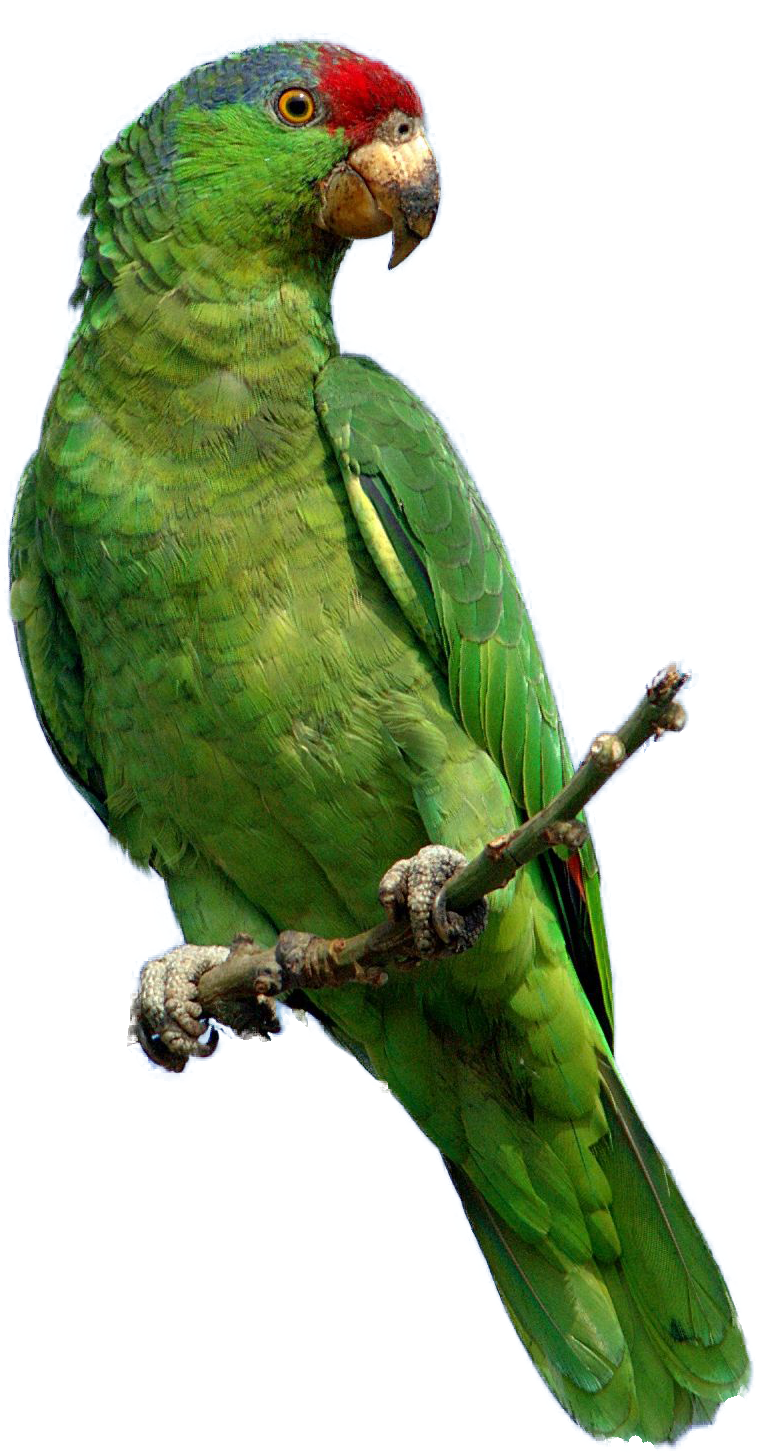
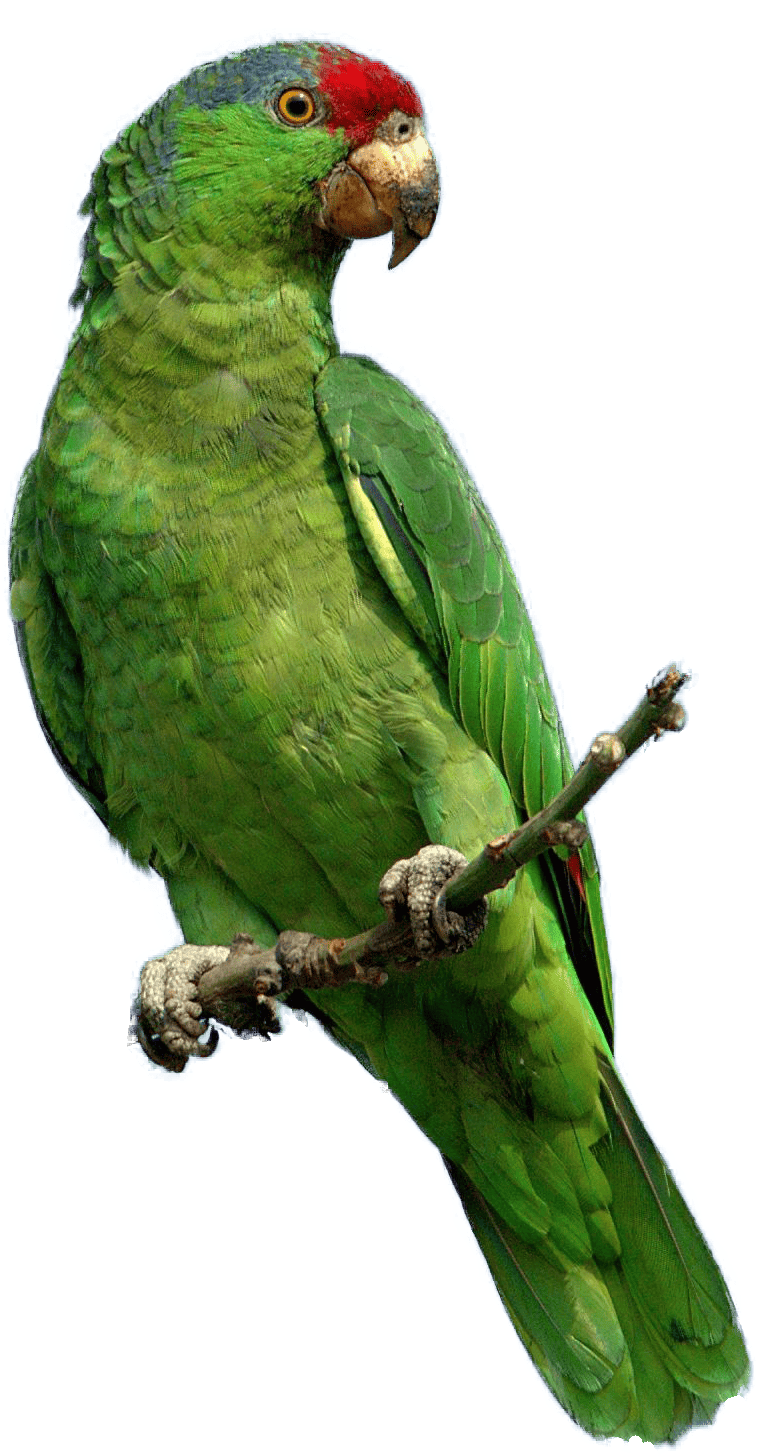
feat: add haptic vibration feedback to user interactions and minimize the size of asset images

diff --git a/src/screens/Learning.tsx b/src/screens/Learning.tsx
@@ -31,6 +31,7 @@ export const Learning: React.FC = () => {
   const currentItem = dataset[currentIndex];
 
   const handlePlaySound = useCallback(() => {
+    if (navigator.vibrate) navigator.vibrate(10);
     console.log("Learning Screen: handlePlaySound triggered");
     setIsSpeaking(true);
     const textToSpeak =
@@ -43,6 +44,7 @@ export const Learning: React.FC = () => {
   }, [currentItem, mode, playSound]);
 
   const handleNext = useCallback(() => {
+    if (navigator.vibrate) navigator.vibrate(10);
     if (currentIndex < dataset.length - 1) {
       setDirection(1);
       setCurrentIndex((prev) => prev + 1);
@@ -52,6 +54,7 @@ export const Learning: React.FC = () => {
   }, [currentIndex, dataset.length]);
 
   const handlePrev = useCallback(() => {
+    if (navigator.vibrate) navigator.vibrate(10);
     if (currentIndex > 0) {
       setDirection(-1);
       setCurrentIndex((prev) => prev - 1);
@@ -67,10 +70,14 @@ export const Learning: React.FC = () => {
     return (
       <Celebration
         onRestart={() => {
+          if (navigator.vibrate) navigator.vibrate(10);
           setIsCompleted(false);
           setCurrentIndex(0);
         }}
-        onHome={() => navigate("/")}
+        onHome={() => {
+          if (navigator.vibrate) navigator.vibrate(10);
+          navigate("/");
+        }}
       />
     );
   }
@@ -87,7 +94,10 @@ export const Learning: React.FC = () => {
         <motion.button
           whileHover={{ scale: 1.1, rotate: -5 }}
           whileTap={{ scale: 0.9, rotate: 0 }}
-          onClick={() => navigate("/")}
+          onClick={() => {
+            if (navigator.vibrate) navigator.vibrate(10);
+            navigate("/");
+          }}
           className="w-14 h-14 md:w-20 md:h-20 rounded-2xl md:rounded-[28px] bg-white shadow-[0_6px_0_#E2E8F0] md:shadow-[0_10px_0_#E2E8F0] flex items-center justify-center text-gray-700 border-2 border-gray-100"
         >
           <Home size={28} className="md:w-9 md:h-9" strokeWidth={3} />
@@ -181,6 +191,7 @@ export const Learning: React.FC = () => {
             whileHover={{ scale: 1.1, rotate: -180 }}
             whileTap={{ scale: 0.9 }}
             onClick={() => {
+              if (navigator.vibrate) navigator.vibrate(10);
               setDirection(-1);
               setCurrentIndex(0);
             }}

diff --git a/src/screens/Home.tsx b/src/screens/Home.tsx
@@ -8,6 +8,11 @@ export const Home: React.FC = () => {
   const navigate = useNavigate();
 
   const handleModeClick = (path: string) => {
+    // Haptic feedback for mobile
+    if (typeof navigator !== "undefined" && navigator.vibrate) {
+      navigator.vibrate(10);
+    }
+
     // Prime the audio engine with a user gesture
     if (typeof globalThis !== "undefined" && globalThis.speechSynthesis) {
       globalThis.speechSynthesis.cancel();
@@ -66,7 +71,8 @@ export const Home: React.FC = () => {
               <motion.div
                 animate={{ rotate: [0, 5, -5, 0], y: [0, -5, 0] }}
                 transition={{ repeat: Infinity, duration: 4, ease: "easeInOut" }}
-                className="relative shrink-0"
+                className="relative shrink-0 cursor-pointer"
+                onClick={() => navigator.vibrate?.(10)}
               >
                 <div className="w-20 h-20 md:w-32 md:h-32 rounded-full border-4 md:border-6 border-white shadow-2xl overflow-hidden bg-white">
                   <img
@@ -92,7 +98,8 @@ export const Home: React.FC = () => {
               <motion.div
                 animate={{ rotate: [0, -5, 5, 0], y: [0, -5, 0] }}
                 transition={{ repeat: Infinity, duration: 4, ease: "easeInOut", delay: 0.5 }}
-                className="relative shrink-0"
+                className="relative shrink-0 cursor-pointer"
+                onClick={() => navigator.vibrate?.(10)}
               >
                 <div className="w-20 h-20 md:w-32 md:h-32 rounded-full border-4 md:border-6 border-white shadow-2xl overflow-hidden bg-white">
                   <img

diff --git a/src/hooks/useSwipe.ts b/src/hooks/useSwipe.ts
@@ -28,8 +28,10 @@ export const useSwipe = ({ onSwipeLeft, onSwipeRight }: SwipeInput) => {
     const isRightSwipe = distance < -minSwipeDistance;
 
     if (isLeftSwipe) {
+      if (typeof navigator !== "undefined" && navigator.vibrate) navigator.vibrate(10);
       onSwipeLeft();
     } else if (isRightSwipe) {
+      if (typeof navigator !== "undefined" && navigator.vibrate) navigator.vibrate(10);
       onSwipeRight();
     }
   };
